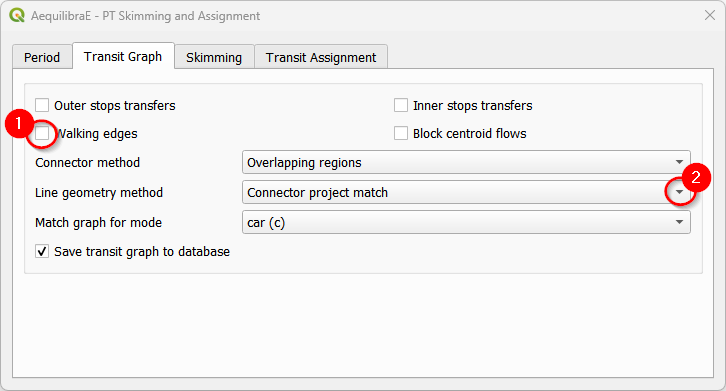
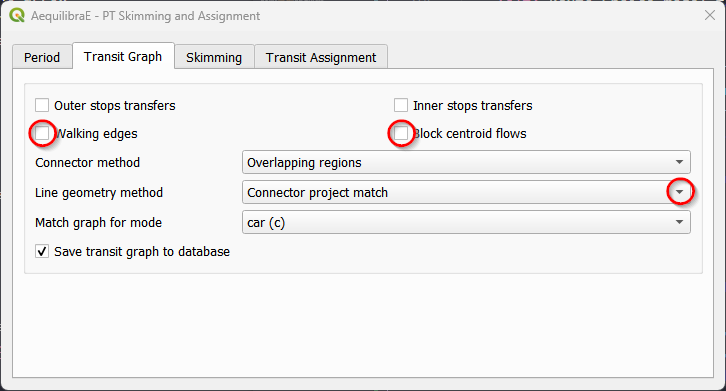
.

diff --git a/docs/source/menus_in_detail/public_transport.rst b/docs/source/menus_in_detail/public_transport.rst
@@ -161,7 +161,32 @@ Transit assignment
 In this example, we'll perform the assignment for all day-long also for Coquimbo. This is a reproduction
 of an AequilibraE's `example <https://www.aequilibrae.com/develop/python/_auto_examples/public_transport/plot_public_transit_assignment.html#>`_.
 
+Let's start the example selecting the default period at the periods table.
 
+.. image:: ../images/pt_assign_13.png
+    :align: center
+    :alt: select default period
+
+Now let's configure our transit graph. We'll uncheck the buttons "walking edges" and "block centroid flows",
+however, we'll save the transit graph in the database, just in case we want to re-use it in another project.
+We set the "line geometry method" as "*Connector project match*" because project graphs must be build with
+this method.
+
+.. image:: ../images/pt_assign_9.png
+    :align: center
+    :alt: set transit graph for assignment
+
+As we're running an assignment, we'll skip the Skimming tab and move directly to "*Transit Assignment*".
+Let's select a demand matrix and its core for computation (steps 1 and 2). As Coquimbo doesn't have any 
+matrix in its matrices folder, you'll have to create one open layer and 
+:ref:`import it to the project <importing_matrices>`. Then, select an appropriate  name for the transit 
+assignment class (setp 3), and the variables that corresponds to the travel time and frequency (steps 4 
+and 5). Lastly, select an appropriate name for the output that will be stored in the results database 
+(step 6) and just hit the *Perform Assignment* button at the bottom.
+
+.. image:: ../images/pt_assign_10.png
+    :align: center
+    :alt: transit assignment
 
 Explore transit network
 -----------------------
